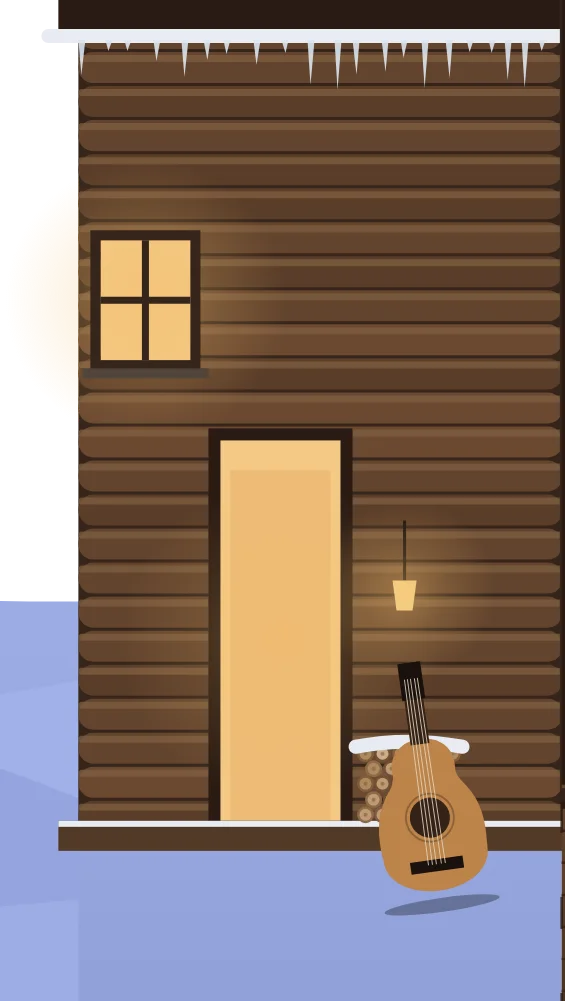
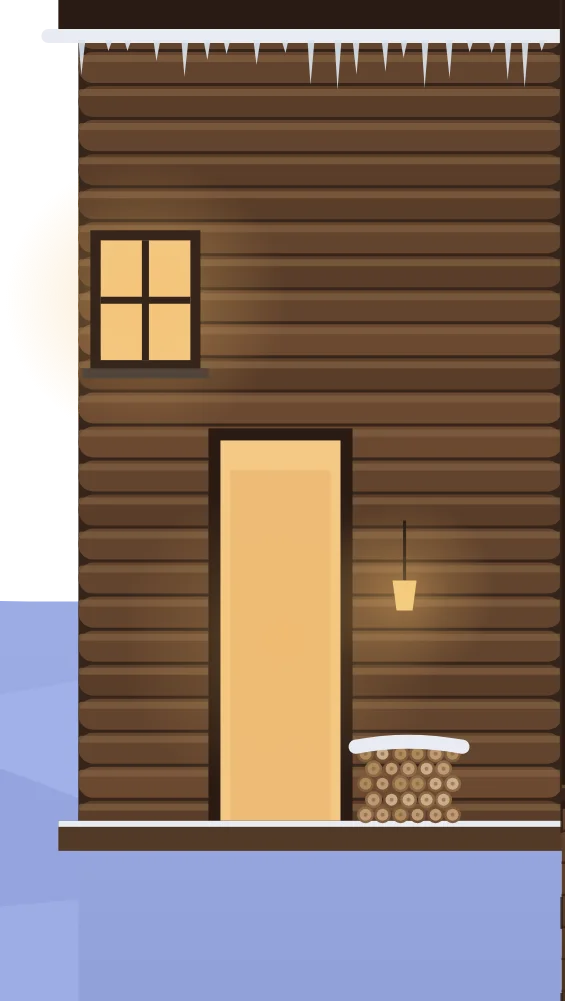
スノーボードを雪に刺す、小屋の外のギターをやめる、夜の庭の BMX をやめる、鯉が途中から急に現れないように

Changed region(s): [[0.6619, 0.6503, 0.8726, 0.9291]]

diff --git a/assets/js/museum.js b/assets/js/museum.js
@@ -479,10 +479,12 @@ function buildRoomScene(r) {
     // 広い画面では左右に鏡の絵を交互に（奇数番目は鏡の絵、偶数番目はそれを裏返して元の向きに）
     const sides = (ks, name, y, h, clipR) => ks.map((k) => part(`snow-${name}-ext.webp`, P.x + k * P.pw, y, h, clipR, k % 2 === 0)).join('');
     r.layerHTML['.far'] += part('snow-mount.webp', P.x, P.y(240), 480 * P.s) + sides(P.farTiles, 'mount', P.y(240), 480 * P.s);
-    const bh = W < 80 ? 22 : 28, bw = bh * 136 / 640, bx = W * 1.5 - 6 - 1.2 - (W < 80 ? 3.4 : 5) - bw / 2;
+    // スノーボードは、小屋の手前の雪に縦に刺す（下の 2 割ほどが雪に埋まり、根もとに雪が盛り上がる）
+    const bh = W < 80 ? 22 : 28, bw = bh * 136 / 640, bx = P.facade0 - (W < 80 ? 7 : 10), by = 97, sunk = bh * .2;
+    const mound = `<svg class="snowcut" viewBox="-10 -3 20 6" preserveAspectRatio="none" style="${box(bx - bw * 1.6, by - 1.6, bw * 3.2, 3.2)};overflow:visible" aria-hidden="true"><ellipse cx=".6" cy="1.4" rx="9.5" ry="1.4" fill="#7f8fcf" opacity=".45"/><path d="M-9.6 2.4Q-6 -.6 -2.2 -1.4Q0 -2.2 2.4 -1.2Q6 -.4 9.6 2.4Z" fill="#b4c4f6"/><path d="M-6.5 .6Q-2.5 -1.6 0 -1.8Q2.6 -1.5 5.5 .2" stroke="#d6e0fc" stroke-width=".5" fill="none" stroke-linecap="round"/></svg>`;
     r.layerHTML['.mid'] += part('snow-ground.webp', P.x, P.y(600), 722 * P.s, P.facade0) + sides(P.midTiles, 'ground', P.y(600), 722 * P.s, P.facade0)
       + `<svg class="snowcut" viewBox="${P.corner[0]} 0 ${P.corner[1]} 100" preserveAspectRatio="none" style="${box(P.corner[0], 0, P.corner[1], 100)};overflow:visible" aria-hidden="true">${gradeColors(P.corner[2], GRADES.attic)}</svg>`
-      + `<div class="snowcut board" style="${box(bx - bw / 2, 83.2 - bh, bw, bh)}">${im('snow-board.webp', bw, bh)}</div>`;
+      + `<div class="snowcut board" style="${box(bx - bw / 2, by - bh + sunk, bw, bh - sunk)}">${im('snow-board.webp', bw, bh)}</div>` + gradeColors(mound, GRADES.attic);
   }
 
   r.glow = S.glowDefault;

diff --git a/assets/js/nature.js b/assets/js/nature.js
@@ -2057,7 +2057,8 @@ export function sceneAttic(W, stops, { birdGap = -1 } = {}) {
     const gx = (workX(k) + workX(k + 1)) / 2, Zk = [artZone(W, workX(k), 0, 80), artZone(W, workX(k + 1), 0, 80)];
     // 手前の鉢植えがすき間の真ん中に来るので、床の小物は左右に寄せる
     const off = Math.max(12, W * .11);
-    if (k === 1) { mid += guitar(gx - off, 90, 24) + stoolMug(gx + off, 90.5, 2.2); mug = [gx + off, 90.5 - 2.2 * 1.75 - 2.2 * .42 * 1.1]; }
+    // 1 つ目のすき間は左半分が小屋の外（雪の中）なので、ギターは置かない。スツールとマグは小屋の中にあるときだけ
+    if (k === 1) { if (gx + off > wallX + 3) { mid += stoolMug(gx + off, 90.5, 2.2); mug = [gx + off, 90.5 - 2.2 * 1.75 - 2.2 * .42 * 1.1]; } }
     else if (k === 2) { mid += vinylStack(gx - off, 90, 2.6); }
     else { mid += skis(gx - off, 90, 30); }
     // 壁の小物は、作品にかからないときだけ（広い画面）

diff --git a/assets/css/museum.css b/assets/css/museum.css
@@ -748,7 +748,7 @@ body.grain-off #grain, body.viewing #grain { opacity: 0; visibility: hidden; }
 .snowcut { position: absolute; overflow: hidden; }
 .snowcut img { display: block; max-width: none; user-select: none; }
 .snowcut.flip img { transform: scaleX(-1); }
-.snowcut.board { overflow: visible; transform-origin: 50% 100%; transform: rotate(4deg); }
+.snowcut.board { overflow: hidden; transform-origin: 50% 100%; transform: rotate(-4deg); } /* 下の 2 割は雪の中（切り取って、根もとを雪の盛り上がりで隠す） */
 .cabin-door { position: absolute; top: 44vh; width: 12vh; height: 38vh; perspective: 60vh; pointer-events: none; --open: 0; }
 .cabin-door .leaf { position: absolute; inset: 0; transform-origin: 0 50%; transform: rotateY(calc(var(--open) * -104deg)); filter: brightness(calc(1 - var(--open) * .35)); }
 .cabin-door .leaf svg, .cabin-door .spill { display: block; width: 100%; height: 100%; }
